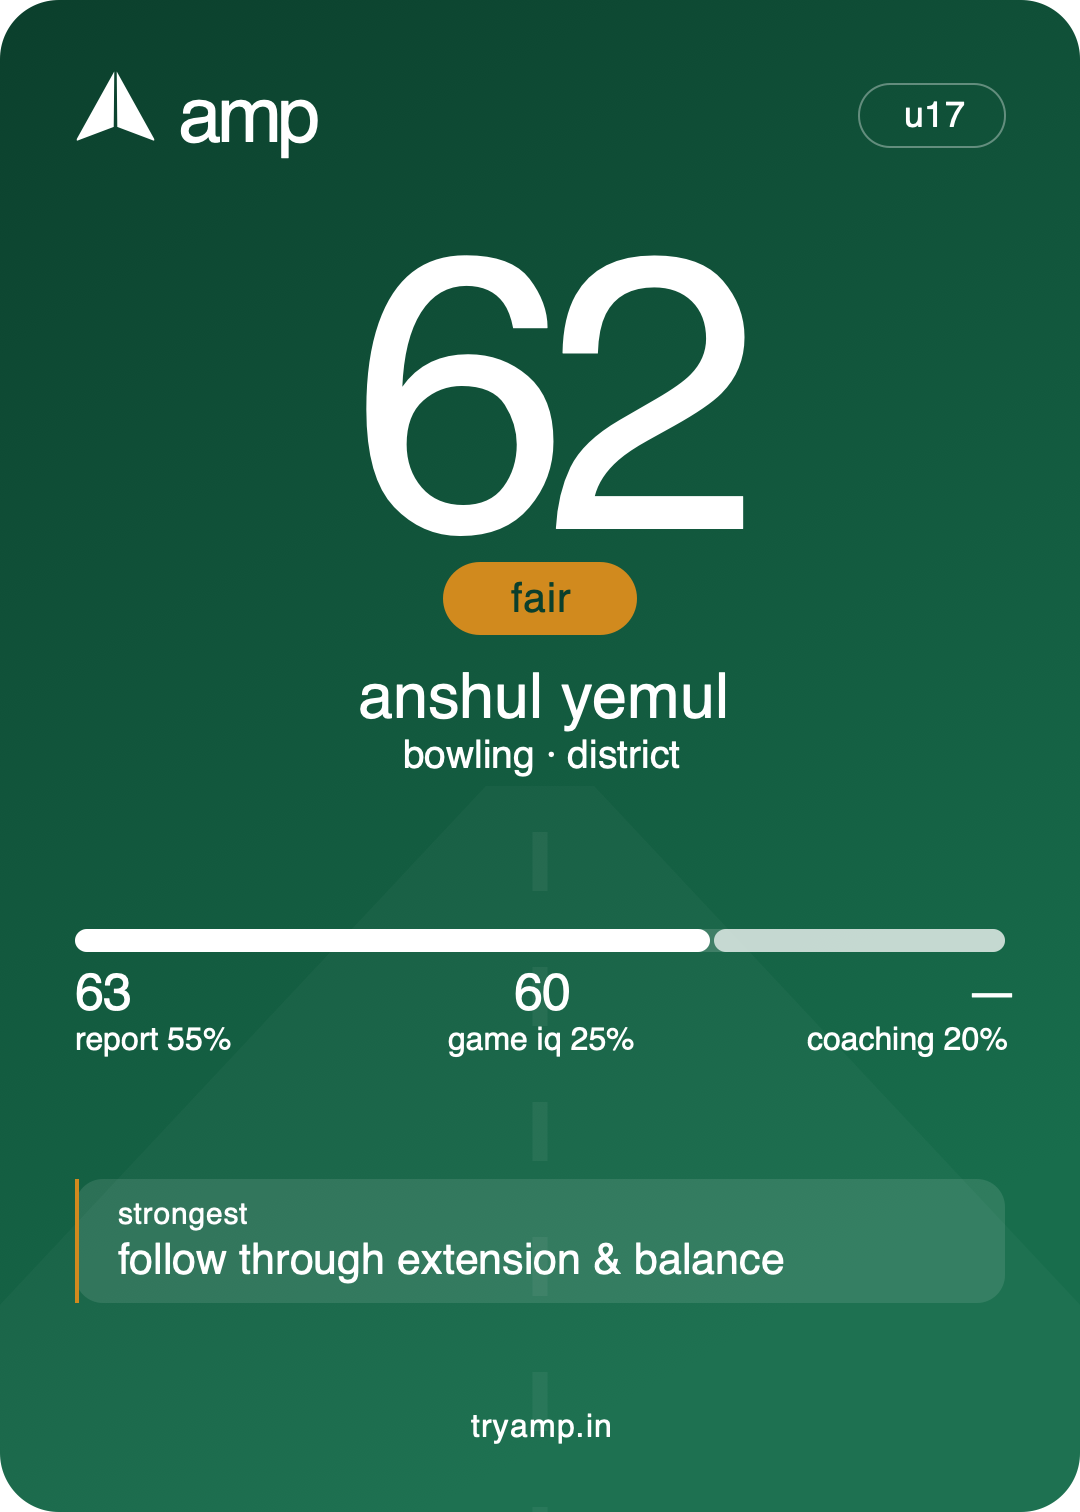
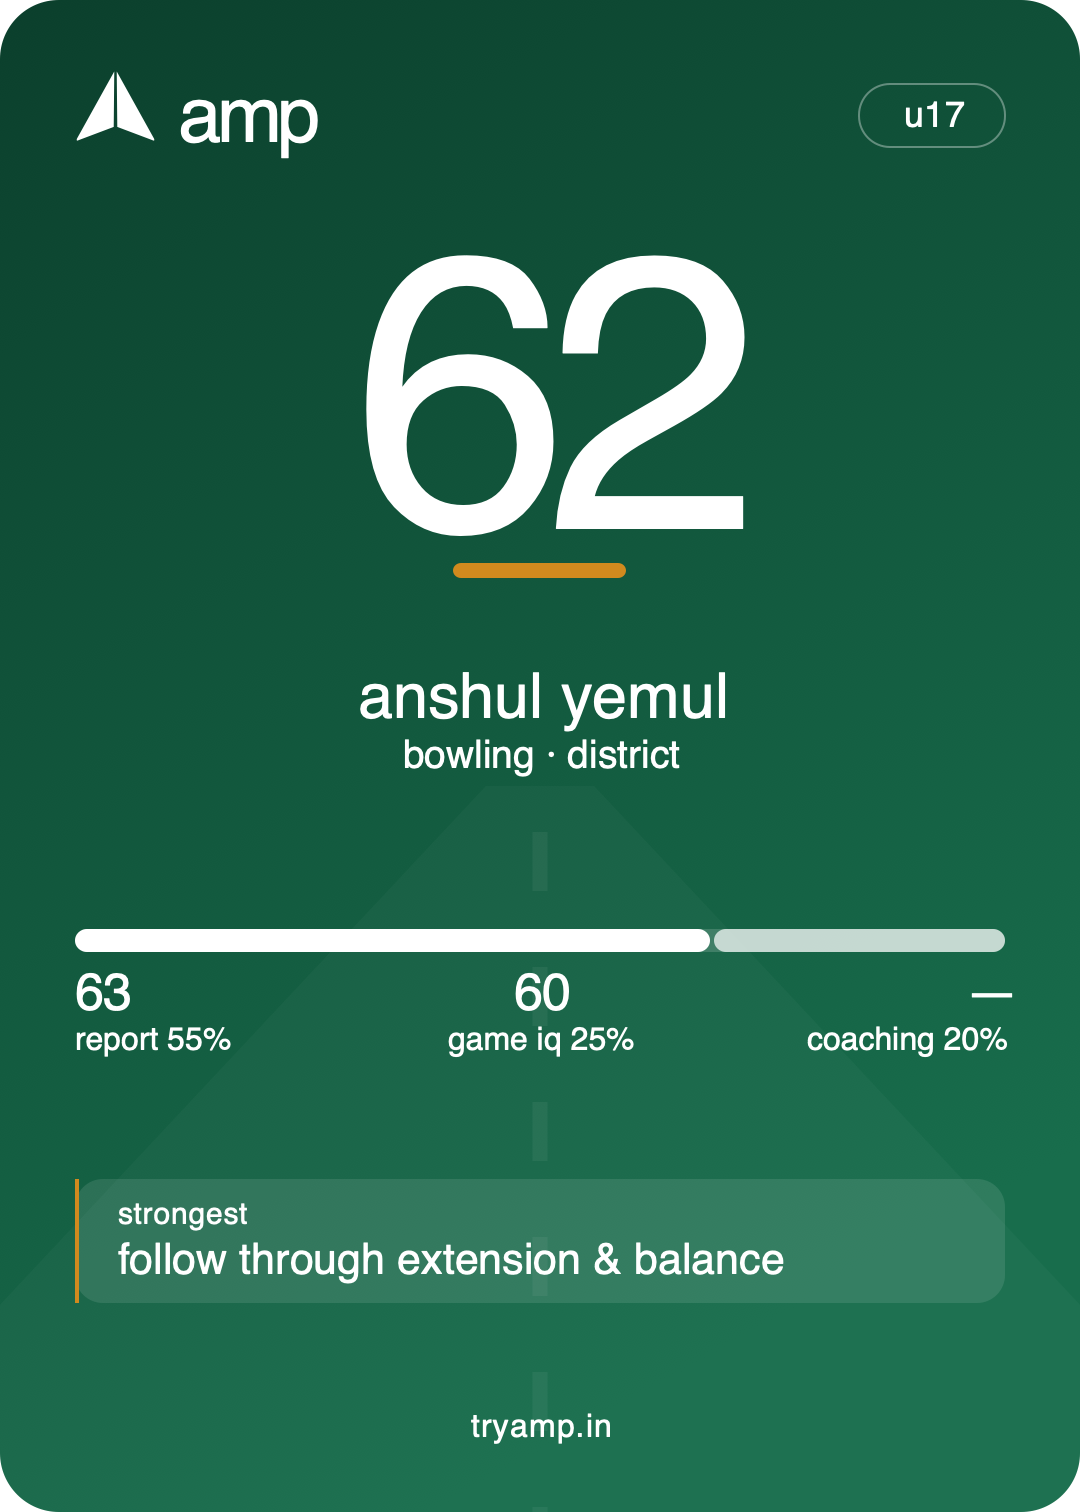
Drop band words for pure colour, remove name from own screens
- bandFor() now only drives colour. No "fair" under a 66 — that was the
  number said twice. Same four colours mean the same four things everywhere.
- The athlete's name is gone from the session list, the report and the
  onboarding build screen. It survives on the share card, the only artefact
  that leaves the phone.
- Another pass on redundant captions.

Changed region(s): [[0.3972, 0.373, 0.6111, 0.4352]]

diff --git a/src/ui/Score.tsx b/src/ui/Score.tsx
@@ -1,7 +1,7 @@
 import React from 'react';
 import { View } from 'react-native';
 import Svg, { Circle } from 'react-native-svg';
-import { useColors, bandFor, bandLabel, radius, space, type } from '../theme';
+import { useColors, bandFor, radius, space, type } from '../theme';
 import { Text } from './Text';
 
 /**
@@ -9,35 +9,24 @@ import { Text } from './Text';
  * the old design coloured the number itself, which made every screen look
  * like it was permanently mid-warning.
  */
+/**
+ * the score, coloured by band. there is no word for the band any more —
+ * "fair" under a 66 was the number said twice, and the colour already carries
+ * it everywhere else on the screen.
+ */
 export function ScoreBadge({ value, size = 'md' }: { value: number; size?: 'sm' | 'md' }) {
   const c = useColors();
-  const band = bandFor(value);
   return (
-    <View style={{ alignItems: 'flex-end' }}>
-      <Text variant={size === 'sm' ? 'scoreSm' : 'score'}>{String(value)}</Text>
-      <BandPill band={band} />
-    </View>
+    <Text variant={size === 'sm' ? 'scoreSm' : 'score'} color={c.score[bandFor(value)]}>
+      {String(value)}
+    </Text>
   );
 }
 
-export function BandPill({ band }: { band: ReturnType<typeof bandFor> }) {
+/** a bare dot in the band colour, where a marker is needed without a number. */
+export function BandDot({ band, size = 8 }: { band: ReturnType<typeof bandFor>; size?: number }) {
   const c = useColors();
-  const tone = c.score[band];
-  return (
-    <View
-      style={{
-        marginTop: 2,
-        paddingHorizontal: space.sm,
-        paddingVertical: 3,
-        borderRadius: radius.pill,
-        backgroundColor: tone + '1A',
-      }}
-    >
-      <Text variant="eyebrow" color={tone}>
-        {bandLabel[band]}
-      </Text>
-    </View>
-  );
+  return <View style={{ width: size, height: size, borderRadius: size / 2, backgroundColor: c.score[band] }} />;
 }
 
 /** hero ring for progress + profile. stroke colour follows the band. */
@@ -74,7 +63,9 @@ export function ScoreRing({
           transform={`rotate(-90 ${size / 2} ${size / 2})`}
         />
       </Svg>
-      <Text style={{ ...type.score, fontSize: size * 0.34, lineHeight: size * 0.36 }}>{String(value)}</Text>
+      <Text style={{ ...type.score, fontSize: size * 0.34, lineHeight: size * 0.36, color: c.score[band] }}>
+        {String(value)}
+      </Text>
       {caption && (
         <Text variant="caption" tone="secondary" style={{ marginTop: 2 }}>
           {caption}

diff --git a/src/ui/ScoreDial.tsx b/src/ui/ScoreDial.tsx
@@ -2,7 +2,7 @@ import React from 'react';
 import { View } from 'react-native';
 import Svg, { Path, Circle } from 'react-native-svg';
 import { Text } from './Text';
-import { useColors, font, bandFor, bandLabel, space } from '../theme';
+import { useColors, font, bandFor, space } from '../theme';
 
 /** polar point on the dial's arc. */
 function pt(cx: number, cy: number, r: number, deg: number) {
@@ -66,24 +66,18 @@ export function ScoreDial({
         )}
       </Svg>
 
-      <View style={{ alignItems: 'center' }}>
-        {/* the numeral's line box is taller than its glyphs, so the band label
-            needs an explicit line height rather than sitting in the overhang */}
-        <Text
-          style={{
-            fontFamily: font.black,
-            fontSize: size * 0.28,
-            lineHeight: size * 0.3,
-            letterSpacing: -2,
-            color: c.text,
-          }}
-        >
-          {String(value)}
-        </Text>
-        <Text variant="eyebrow" color={c.score[band]} style={{ marginTop: 2 }}>
-          {bandLabel[band]}
-        </Text>
-      </View>
+      {/* the arc and the numeral are both the band colour; there is no word */}
+      <Text
+        style={{
+          fontFamily: font.black,
+          fontSize: size * 0.3,
+          lineHeight: size * 0.32,
+          letterSpacing: -2,
+          color: c.score[band],
+        }}
+      >
+        {String(value)}
+      </Text>
 
       {caption && (
         <Text variant="caption" tone="tertiary" style={{ position: 'absolute', bottom: 0 }}>

diff --git a/src/screens/Progress.tsx b/src/screens/Progress.tsx
@@ -69,7 +69,7 @@ export function ProgressScreen({ go, onClose }: { go: (r: string) => void; onClo
 
 function Overview({ go }: { go: (r: string) => void }) {
   const c = useColors();
-  const { progression, profile } = useStore();
+  const { progression } = useStore();
   const [list, setList] = useState(seed);
 
   const rated = progression.ampScore > 0;
@@ -120,7 +120,6 @@ function Overview({ go }: { go: (r: string) => void }) {
         {list.map((s) => (
           <SessionCard
             key={s.id}
-            player={profile.name || 'you'}
             kind={s.kind}
             when={s.when}
             score={s.score}
@@ -550,7 +549,7 @@ function Matches({ go }: { go: (r: string) => void }) {
       {untagged > 0 && (
         <Section>
           <Text variant="caption" tone="tertiary">
-            {`${untagged} of these ${untagged === 1 ? 'has' : 'have'} nobody marked as you, so ${untagged === 1 ? "it doesn't" : "they don't"} feed your kpis.`}
+            {`${untagged} not marked as you — ${untagged === 1 ? "doesn't" : "don't"} feed your kpis.`}
           </Text>
         </Section>
       )}
@@ -567,7 +566,7 @@ function Matches({ go }: { go: (r: string) => void }) {
         {insights.length === 0 ? (
           <Card>
             <Text variant="caption" tone="secondary">
-              {`${MIN_BALLS} balls of evidence needed before these mean anything.`}
+              {`needs ${MIN_BALLS} balls of evidence.`}
             </Text>
           </Card>
         ) : (

diff --git a/src/ui/ScoreCard.tsx b/src/ui/ScoreCard.tsx
@@ -3,7 +3,7 @@ import { View, StyleSheet } from 'react-native';
 import Svg, { Path, Defs, LinearGradient, Stop, Rect } from 'react-native-svg';
 import { Text } from './Text';
 import { VectorMark } from './Logo';
-import { font, space, radius, bandFor, bandLabel, light } from '../theme';
+import { font, space, radius, bandFor, light } from '../theme';
 import { shares, type Component } from '../ampScore';
 
 /**
@@ -117,19 +117,16 @@ export function ScoreCard({ name, discipline, club, ageBand, score, components: 
           >
             {score === null ? '—' : String(score)}
           </Text>
+          {/* a rule in the band colour instead of a word for it */}
           <View
             style={{
-              marginTop: width * 0.02,
-              paddingHorizontal: width * 0.045,
-              paddingVertical: width * 0.016,
-              borderRadius: radius.pill,
+              marginTop: width * 0.03,
+              width: width * 0.16,
+              height: width * 0.014,
+              borderRadius: width * 0.007,
               backgroundColor: accent,
             }}
-          >
-            <Text style={{ fontFamily: font.black, fontSize: width * 0.038, letterSpacing: 1, color: GREEN_TOP }}>
-              {score === null ? 'unrated' : bandLabel[band]}
-            </Text>
-          </View>
+          />
         </View>
 
         <View style={{ gap: width * 0.04 }}>

diff --git a/src/ui/Hud.tsx b/src/ui/Hud.tsx
@@ -2,7 +2,7 @@ import React from 'react';
 import { View, StyleSheet } from 'react-native';
 import { Ionicons } from '@expo/vector-icons';
 import { useSafeAreaInsets } from 'react-native-safe-area-context';
-import { useColors, space, radius, bandFor, bandLabel, font } from '../theme';
+import { useColors, space, radius, bandFor, font } from '../theme';
 import { Text } from './Text';
 import { Touch } from './Pressable';
 import { useStore } from '../state/store';
@@ -59,14 +59,9 @@ export function Hud({ onScorePress, onAsk }: { onScorePress?: () => void; onAsk?
         >
           {rated ? String(g.ampScore) : '—'}
         </Text>
-        <View>
-          <Text variant="tab" tone="tertiary">
-            amp score
-          </Text>
-          <Text variant="tab" tone="secondary">
-            {rated ? bandLabel[band] : 'not rated yet'}
-          </Text>
-        </View>
+        <Text variant="tab" tone="tertiary">
+          amp score
+        </Text>
       </Touch>
 
       <View style={{ flex: 1 }} />

diff --git a/src/ui/SessionCard.tsx b/src/ui/SessionCard.tsx
@@ -7,15 +7,17 @@ import { Touch } from './Pressable';
 import { ScoreBadge } from './Score';
 import { useColors, space } from '../theme';
 
+/**
+ * one session. it doesn't carry a name — this is your own list, so the name was
+ * the same word on every row.
+ */
 export function SessionCard({
-  player,
   kind,
   when,
   score,
   onPress,
   onDelete,
 }: {
-  player: string;
   kind: string;
   when: string;
   score: number;
@@ -26,11 +28,8 @@ export function SessionCard({
   return (
     <Card onPress={onPress} padded={false}>
       <View style={{ flexDirection: 'row', alignItems: 'center', padding: space.xl, gap: space.md }}>
-        <View style={{ flex: 1, gap: 3 }}>
-          <Text variant="eyebrow" tone="tertiary">
-            {kind}
-          </Text>
-          <Text variant="bodyStrong">{player}</Text>
+        <View style={{ flex: 1, gap: 2 }}>
+          <Text variant="bodyStrong">{kind}</Text>
           <Text variant="caption" tone="secondary">
             {when}
           </Text>

diff --git a/src/screens/onboarding/Onboarding.tsx b/src/screens/onboarding/Onboarding.tsx
@@ -103,7 +103,7 @@ export function Onboarding() {
           keyboardShouldPersistTaps="handled"
         >
           {stage === 'identity' && (
-            <Q title={`nice to meet you`} sub="four things, one screen. we use height and weight to read your body angles from video.">
+            <Q title="the basics" sub="height and weight let us read your body angles from video.">
               <View style={{ gap: space.xl }}>
                 <Field label="name">
                   <Input value={p.name} onChangeText={(name) => patch({ name })} placeholder="your name" />
@@ -448,7 +448,7 @@ function Ready({ profile, onDone }: { profile: AthleteProfile; onDone: () => voi
     >
       <LogoMark size={52} />
       <Text variant="title" align="center">
-        {`building ${profile.name.split(' ')[0].toLowerCase()}'s road`}
+        building your road
       </Text>
       <View style={{ gap: space.md, alignSelf: 'stretch' }}>
         {BUILD_STEPS.map((s, i) => (

diff --git a/src/screens/iq/ScenarioCard.tsx b/src/screens/iq/ScenarioCard.tsx
@@ -84,18 +84,14 @@ export function ScenarioCard({
             }}
           />
         </View>
-        <View style={{ flexDirection: 'row', alignItems: 'center' }}>
-          <Text variant="tab" tone="tertiary" style={{ flex: 1 }}>
-            {settled ? 'answer locked' : 'answer before the bar runs out'}
-          </Text>
-          <Text
-            variant="caption"
-            color={urgent ? c.score.poor : c.textTertiary}
-            style={{ fontFamily: font.bold }}
-          >
-            {`${Math.ceil(tick)}s`}
-          </Text>
-        </View>
+        {/* a draining bar and a countdown do not also need a sentence */}
+        <Text
+          variant="caption"
+          color={urgent ? c.score.poor : c.textTertiary}
+          style={{ fontFamily: font.bold, alignSelf: 'flex-end' }}
+        >
+          {`${Math.ceil(tick)}s`}
+        </Text>
       </View>
 
       {/* the situation */}

diff --git a/src/screens/Road.tsx b/src/screens/Road.tsx
@@ -161,12 +161,9 @@ export function RoadScreen({ go }: { go: (r: string) => void }) {
           <View style={{ paddingHorizontal: space.gutter, paddingTop: space.xl }}>
             <Card style={{ flexDirection: 'row', alignItems: 'center', gap: space.md }}>
               <Ionicons name="arrow-forward-circle-outline" size={20} color={c.textTertiary} />
-              <View style={{ flex: 1 }}>
-                <Text variant="tab" tone="tertiary">
-                  up next
-                </Text>
-                <Text variant="callout">{`week ${plan[currentIdx + 1].index} · ${plan[currentIdx + 1].focus}`}</Text>
-              </View>
+              <Text variant="callout" style={{ flex: 1 }} numberOfLines={1}>
+                {`next · ${plan[currentIdx + 1].focus}`}
+              </Text>
             </Card>
           </View>
         )}

diff --git a/src/screens/match/Squads.tsx b/src/screens/match/Squads.tsx
@@ -147,7 +147,7 @@ export function Squads({ match, onDone, onClose }: { match: Match; onDone: (m: M
             <Ionicons name={me ? 'person-circle' : 'person-add-outline'} size={18} color={me ? c.brand : c.textSecondary} />
             <View style={{ flex: 1 }}>
               <Text variant="caption" tone={me ? 'brand' : 'secondary'}>
-                {me ? 'your innings feeds your kpis' : "which one is you?"}
+                {me ? 'feeds your kpis' : 'which one is you?'}
               </Text>
               {me && <Text variant="callout">{me.name}</Text>}
             </View>

diff --git a/src/screens/ShareCard.tsx b/src/screens/ShareCard.tsx
@@ -135,7 +135,7 @@ export function ShareCardScreen({ onClose }: { onClose: () => void }) {
             </View>
           ))}
           <Text variant="caption" tone="tertiary">
-            components you haven't used yet are left out of the average rather than counted as zero.
+            unused components are left out of the average, not counted as zero.
           </Text>
         </View>
       </ScrollView>

diff --git a/README.md b/README.md
@@ -339,6 +339,10 @@ generic bodybuilding split.
 
 ## design notes
 
+**your own name doesn't appear on your own screens.** it was the same word on
+every row of the session list and on a report only you can see. it survives in
+one place — the share card, which is the only thing that leaves the phone.
+
 **lowercase.** `<Text>` lowercases by default. `preserveCase` is for proper
 nouns (the advisor's name) and option letters (A/B/C/D) only.
 
